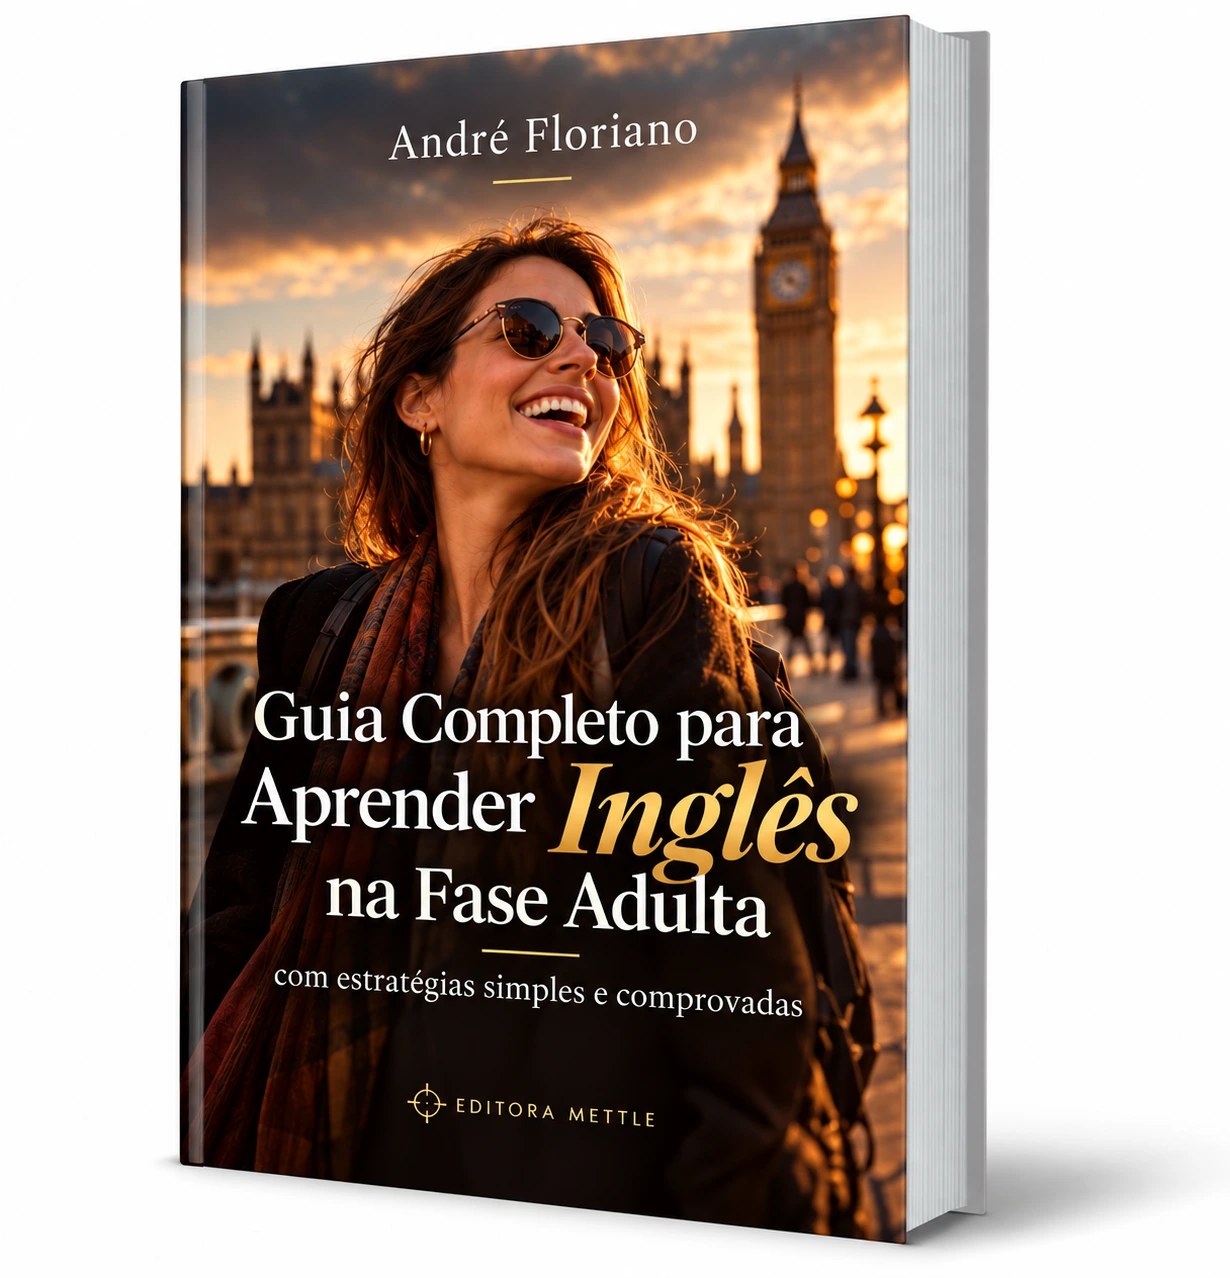
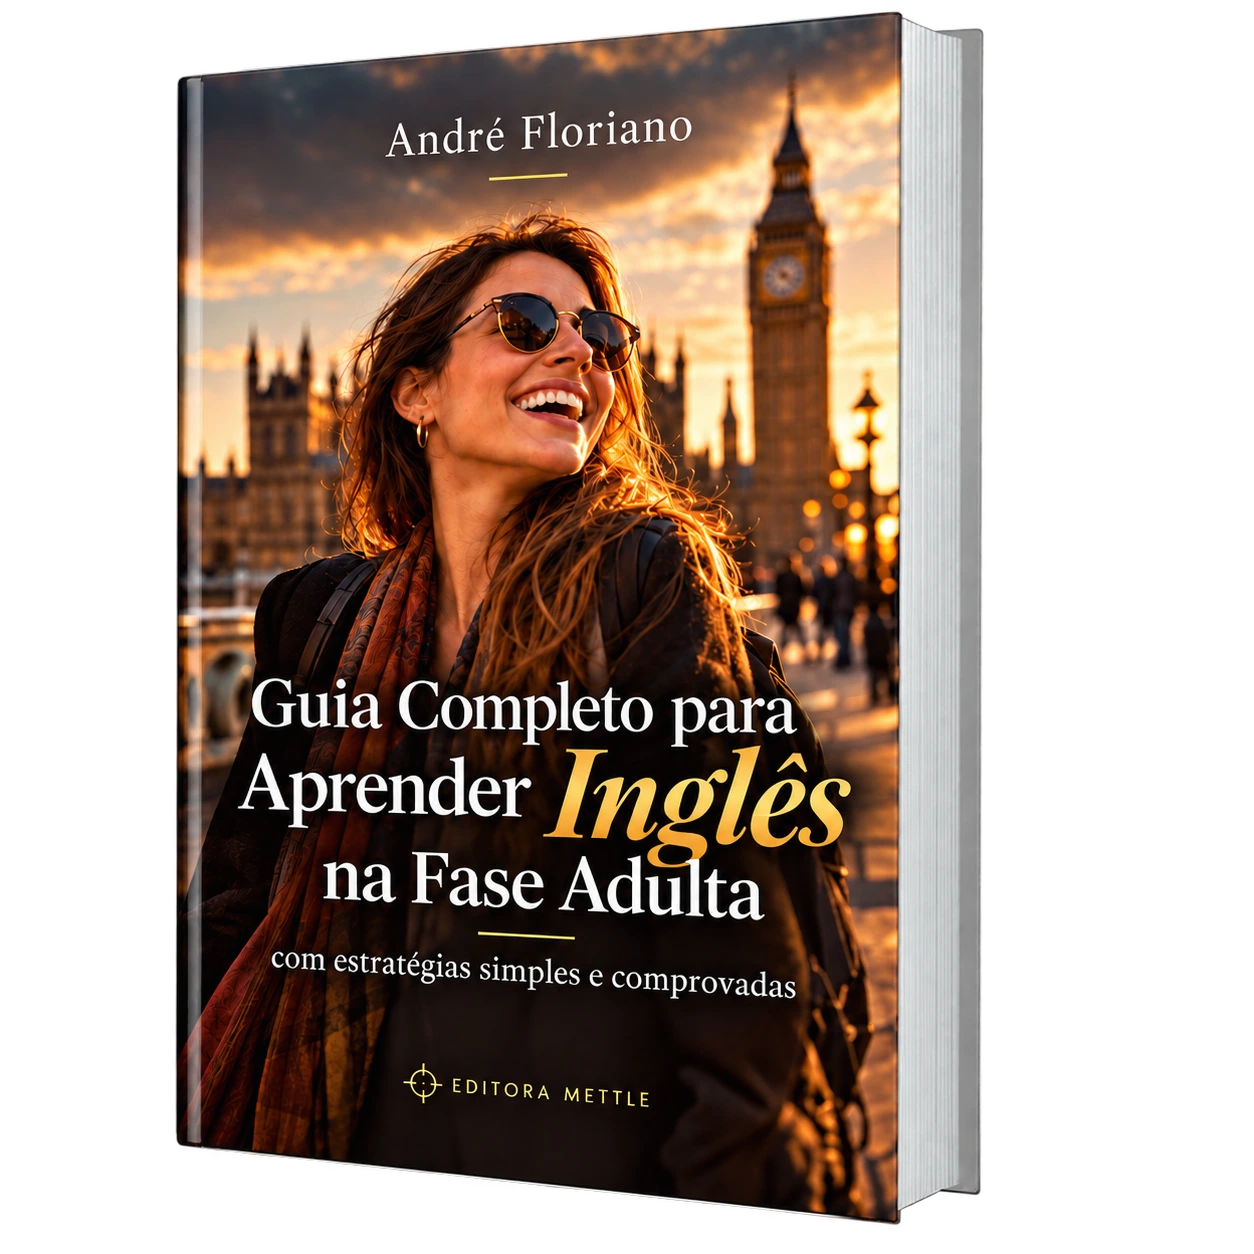
fix(ebook): /guia com o PNG transparente do André (sem multiply nem quadro no escuro)

diff --git a/src/components/_new/NewEbook.tsx b/src/components/_new/NewEbook.tsx
@@ -155,14 +155,6 @@ export const NewEbook: React.FC = () => {
 };
 
 const Product = styled.div`
-    /* imagem do André sem edição: no tema claro o branco do fundo some no fundo da página (multiply) e a sombra dele fica */
-    .cover {
-        mix-blend-mode: multiply;
-    }
-    html[data-theme='dark'] & .cover {
-        mix-blend-mode: normal;
-        border-radius: var(--r-radius);
-    }
     display: grid;
     grid-template-columns: 240px minmax(0, 1fr);
     gap: 48px;
